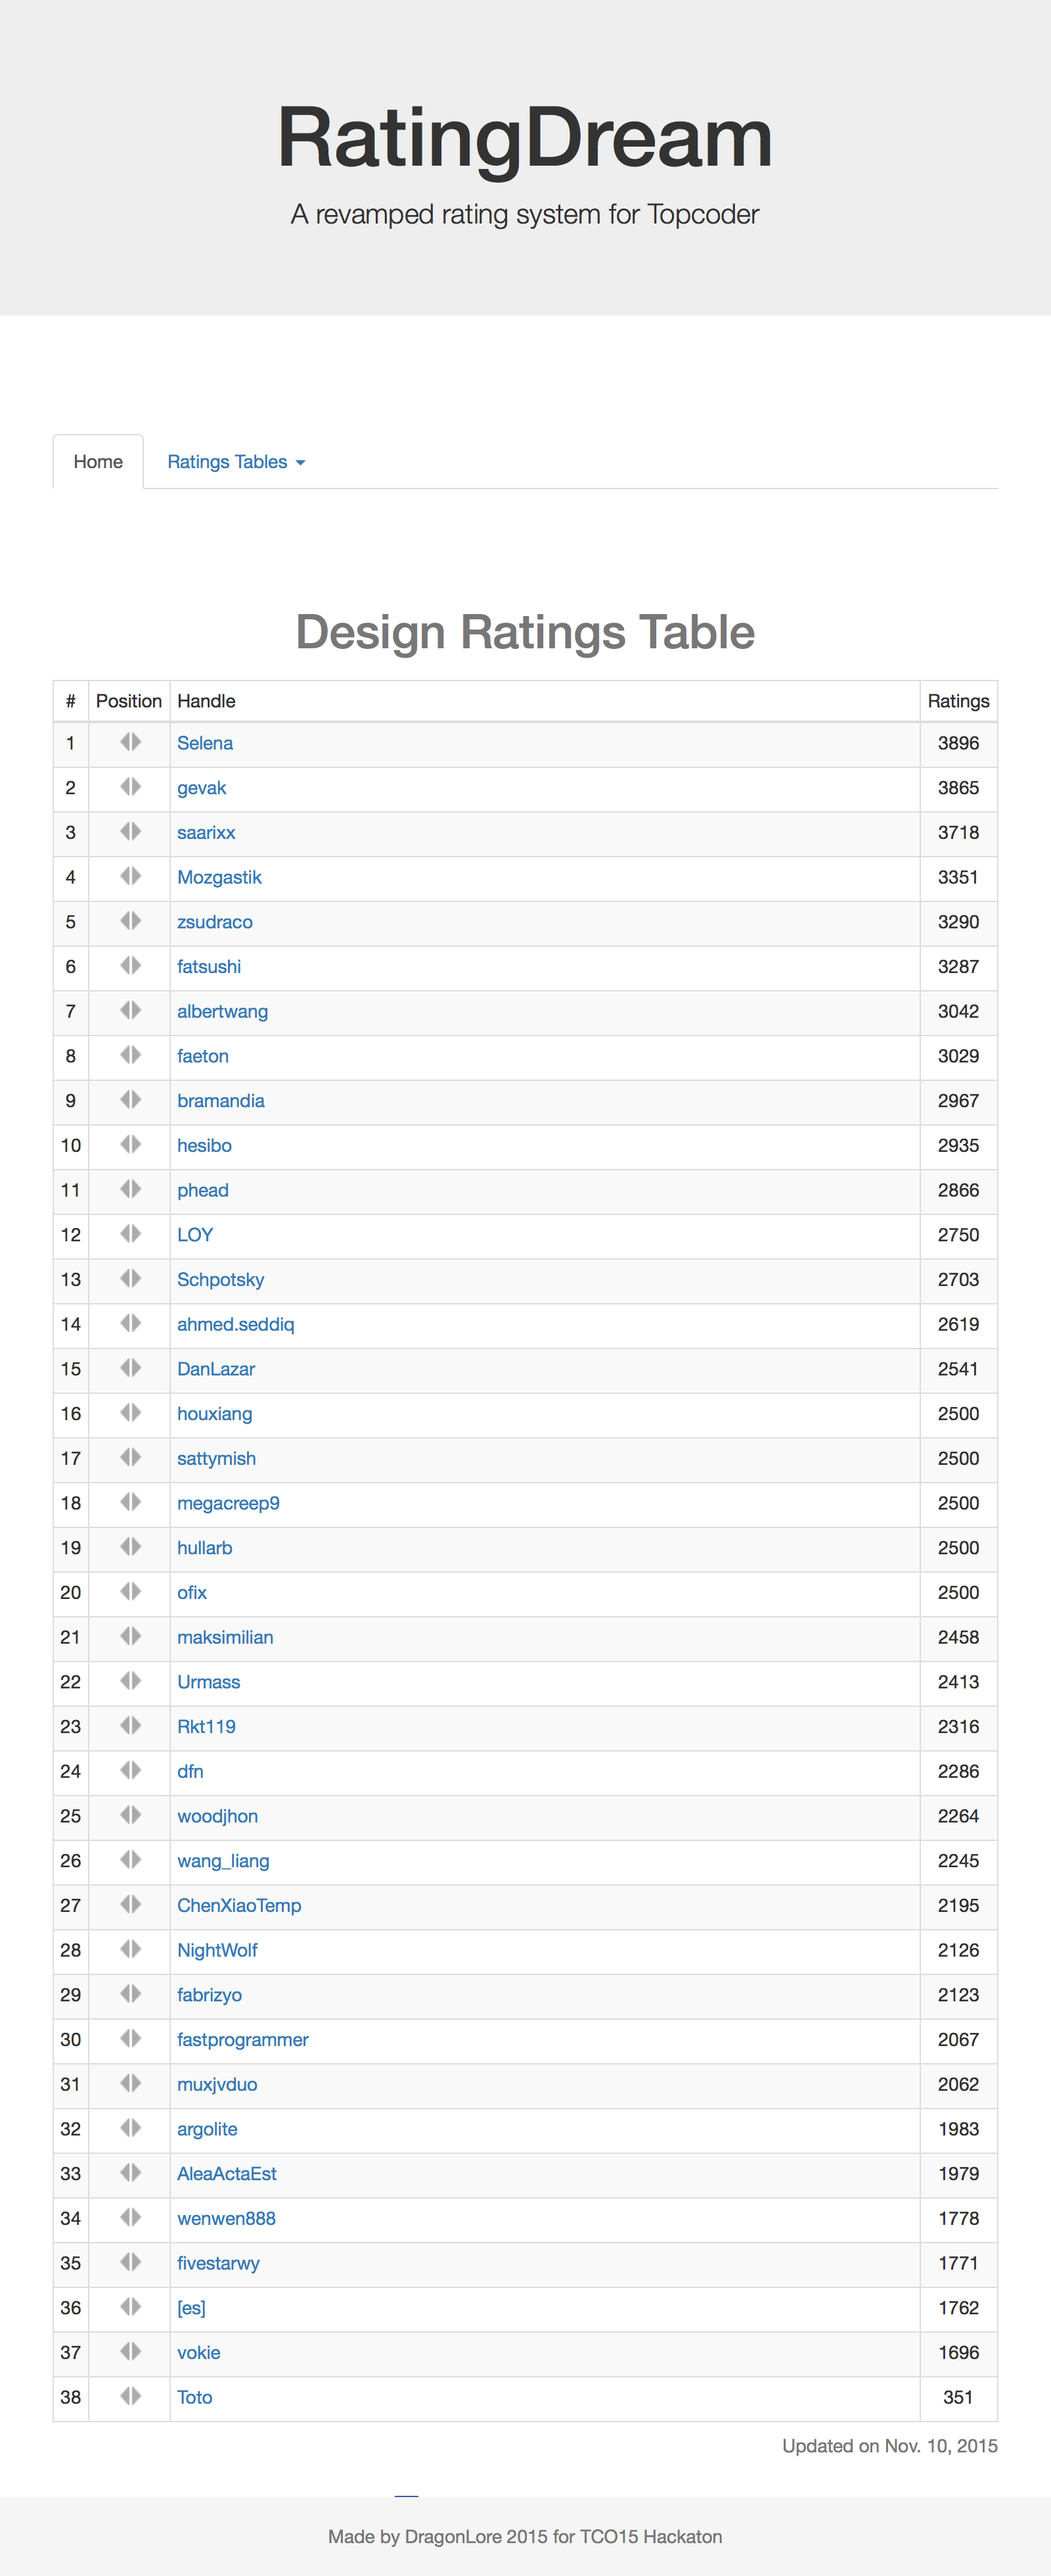
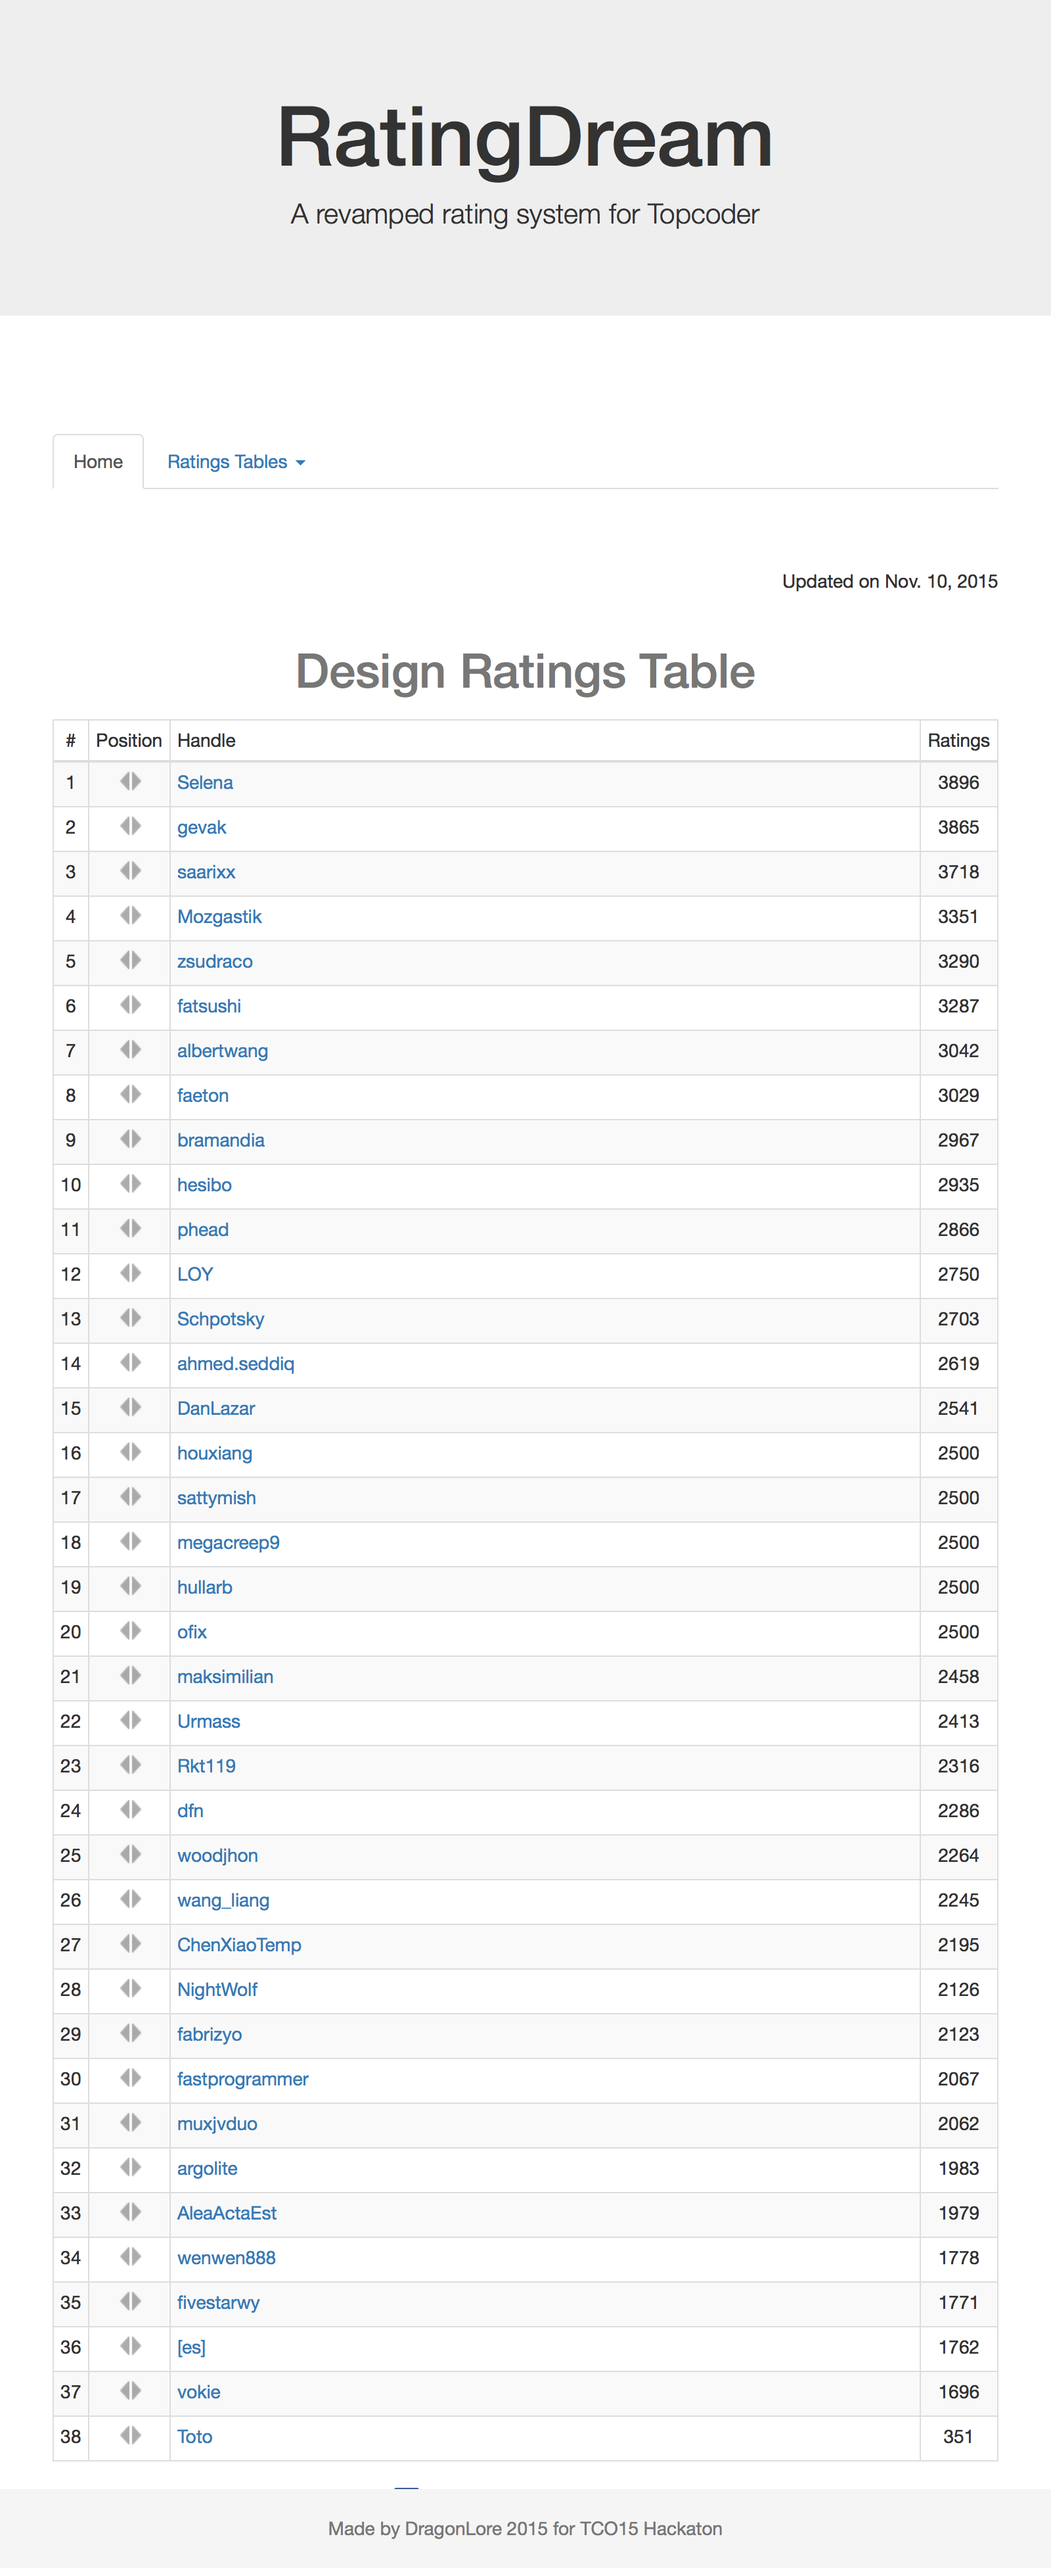
Added url of the application in README

diff --git a/templates/ranktc/view_rankings.html b/templates/ranktc/view_rankings.html
@@ -22,7 +22,7 @@
     </tr>
     {% endfor %}
     </tbody>
-    <caption class="text-right" style="float-right;caption-side: bottom;">Updated on {{ data.updated_on }} </caption>
+    <p class="text-right" >Updated on {{ data.updated_on }} </p>
 
 
     </table>
@@ -31,7 +31,7 @@
 {% endif %}
     <div class="social">
 
-        <span class="google"> <g:plusone  size="medium" annotation="inline"></g:plusone> </span>
+        <span class="google"> <g:plusone  size="medium" ></g:plusone> </span>
 
 
         <span id="tc-share" class="fb-btn-overview facebook"></span>

diff --git a/templates/ranktc/home.html b/templates/ranktc/home.html
@@ -49,7 +49,7 @@
                     <h3 class="panel-title"><a href="/ratings/Code">Code</a></h3>
                 </div>
                  <div class="panel-body">
-                {{ data.code_rated }} rated members
+                {{ data.num_code_rated }} rated members
                 </div>
             </div>
 

diff --git a/README.md b/README.md
@@ -1,0 +1,1 @@
+The application can be accessed through http://ajeb.org:8000
